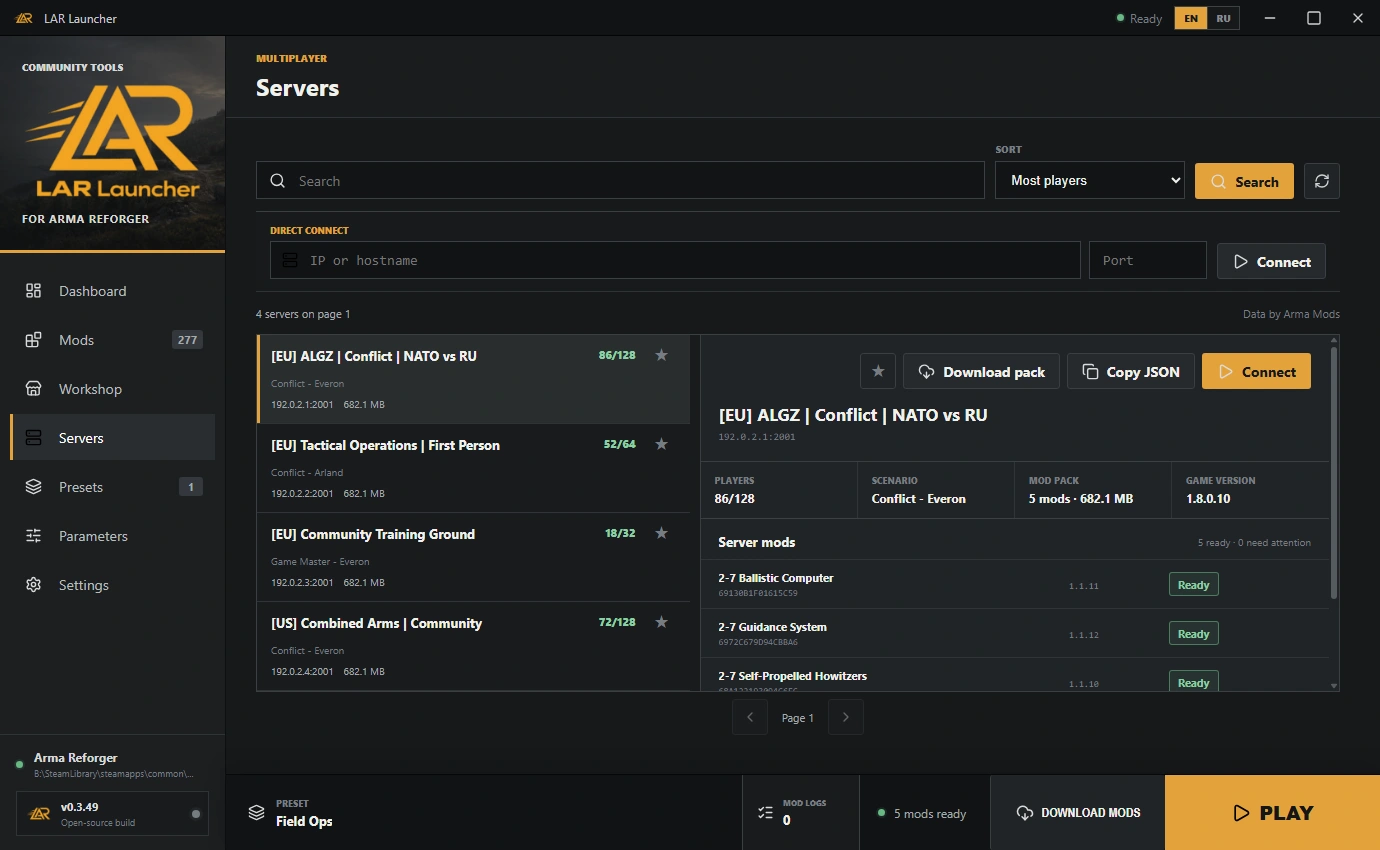
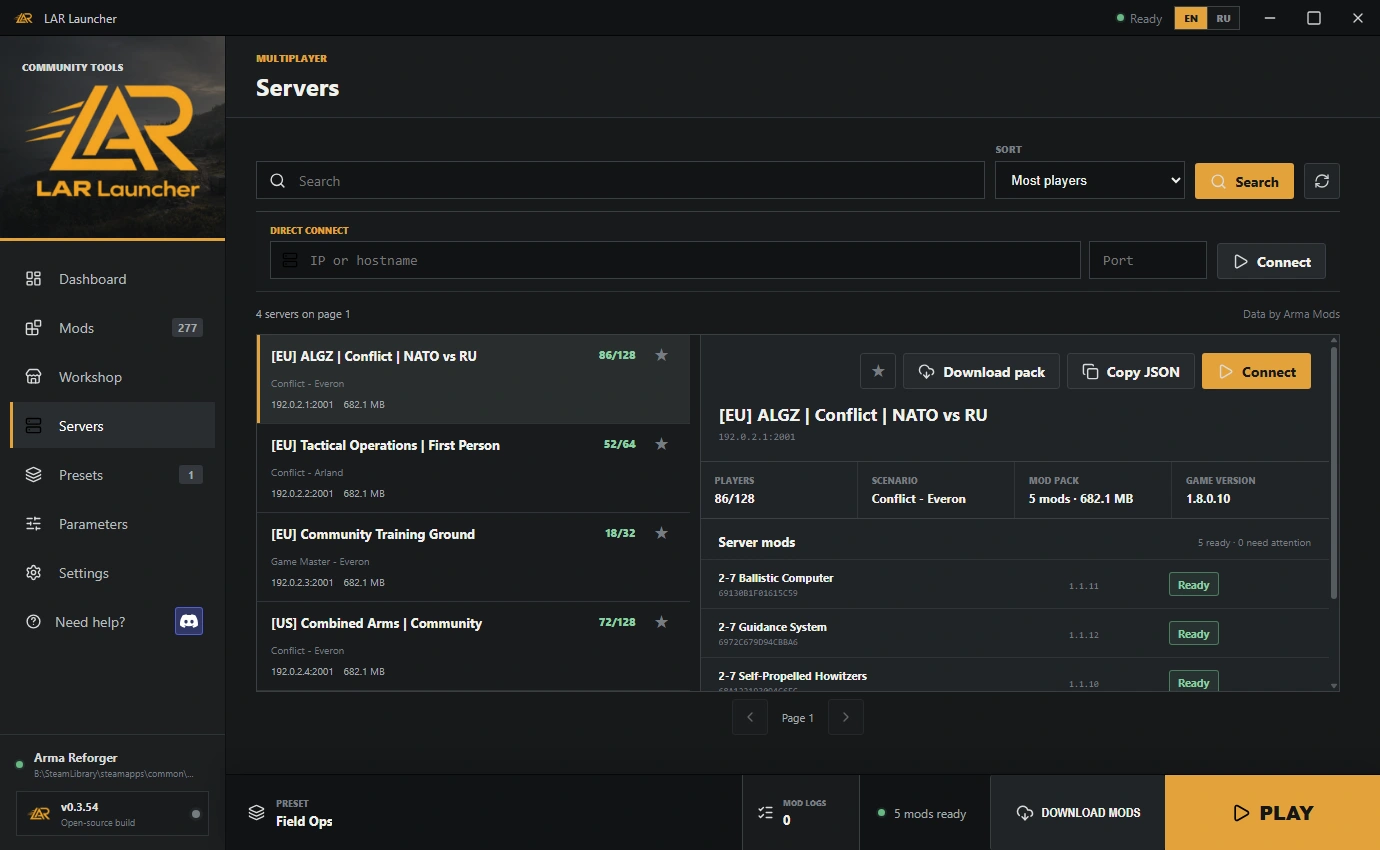
Simplify LAR branding and publish 0.3.54 downloads and screenshots

diff --git a/public/index.html b/public/index.html
@@ -3,12 +3,12 @@
 <head>
   <meta charset="utf-8">
   <meta name="viewport" content="width=device-width, initial-scale=1">
-  <title>LAR Launcher — Launcher for Arma Reforger</title>
-  <meta name="description" content="Download LAR Launcher for Windows and Linux. Browse Arma Reforger servers, import JSON mod presets, check installed mods and launch the game with your selected mod set.">
+  <title>LAR Launcher</title>
+  <meta name="description" content="Download LAR Launcher for Windows and Linux. Browse servers, import JSON mod presets, check installed mods and launch the game with your selected mod set.">
   <meta name="theme-color" content="#111415">
   <meta property="og:type" content="website">
-  <meta property="og:title" content="LAR Launcher — Launcher for Arma Reforger">
-  <meta property="og:description" content="Download LAR Launcher for Windows and Linux. Browse Arma Reforger servers, import JSON mod presets, check installed mods and launch the game with your selected mod set.">
+  <meta property="og:title" content="LAR Launcher">
+  <meta property="og:description" content="Download LAR Launcher for Windows and Linux. Browse servers, import JSON mod presets, check installed mods and launch the game with your selected mod set.">
   <meta property="og:site_name" content="LAR Launcher">
   <meta property="og:url" content="https://armalauncher.net/">
   <meta property="og:image" content="https://armalauncher.net/assets/app-icon-512.png?v=amber20260914v49">
@@ -16,8 +16,8 @@
   <meta property="og:image:height" content="512">
   <meta property="og:image:alt" content="LAR Launcher logo">
   <meta name="twitter:card" content="summary">
-  <meta name="twitter:title" content="LAR Launcher — Launcher for Arma Reforger">
-  <meta name="twitter:description" content="Download LAR Launcher for Windows and Linux. Browse Arma Reforger servers, import JSON mod presets, check installed mods and launch the game with your selected mod set.">
+  <meta name="twitter:title" content="LAR Launcher">
+  <meta name="twitter:description" content="Download LAR Launcher for Windows and Linux. Browse servers, import JSON mod presets, check installed mods and launch the game with your selected mod set.">
   <meta name="twitter:image" content="https://armalauncher.net/assets/app-icon-512.png?v=amber20260914v49">
   <meta name="twitter:image:alt" content="LAR Launcher logo">
   <link rel="canonical" href="https://armalauncher.net/">
@@ -46,7 +46,7 @@
         "@id": "https://armalauncher.net/#application",
         "name": "LAR Launcher",
         "url": "https://armalauncher.net/",
-        "description": "A community launcher for Arma Reforger with server browsing, JSON mod presets and installed mod checks.",
+        "description": "A community launcher with server browsing, JSON mod presets and installed mod checks.",
         "applicationCategory": "GameApplication",
         "operatingSystem": "Windows 10/11 x64; Linux x64 (Ubuntu / Linux Mint)",
         "downloadUrl": "https://armalauncher.net/#download",
@@ -60,7 +60,7 @@
   <header class="site-header" id="siteHeader">
     <a class="brand" href="#top" aria-label="LAR Launcher — home">
       <img src="/assets/app-icon-192.png?v=amber20260914v49" alt="" width="42" height="42">
-      <span><b>LAR Launcher</b><small>FOR ARMA REFORGER</small></span>
+      <span><b>LAR Launcher</b></span>
     </a>
 
     <nav class="main-nav" id="mainNav" aria-label="Main navigation">
@@ -101,8 +101,8 @@
       <div class="container hero-content">
         <p class="eyebrow reveal">ARMALAUNCHER.NET / DESKTOP CLIENT</p>
         <h1>LAR Launcher</h1>
-        <p class="hero-lead">A launcher for Arma Reforger</p>
-        <p class="hero-description">Browse servers, manage your mod presets and launch Arma Reforger with the right mod set.</p>
+        <p class="hero-lead">Servers. Mods. Presets.</p>
+        <p class="hero-description">Browse servers, manage your mod presets and launch the game with the right mod set.</p>
         <div class="hero-actions reveal" data-reveal-delay="3">
           <a class="button primary" data-download="setup" href="/get/setup">
             <img src="/assets/icons/download.svg" alt="" width="24" height="24">
@@ -116,7 +116,7 @@
           </a>
         </div>
         <div class="hero-meta reveal" data-reveal-delay="4" aria-label="Release information">
-          <span>Version <b data-release-version>0.3.49</b></span>
+          <span>Version <b data-release-version>0.3.54</b></span>
           <span>Windows / Linux · x64</span>
           <span><b data-release-size="setup">81.2 MB</b></span>
         </div>
@@ -134,7 +134,7 @@
 
         <figure class="launcher-figure launcher-gallery reveal" id="launcherGallery" aria-label="Launcher screenshot gallery" aria-roledescription="carousel">
           <div class="launcher-gallery-stage" tabindex="0">
-            <img id="launcherGalleryImage" src="/assets/launcher-workshop.webp?v=amber20260914v49" alt="LAR Launcher Workshop showing available mods" width="1380" height="850" loading="lazy" decoding="async">
+            <img id="launcherGalleryImage" src="/assets/launcher-workshop.webp?v=help20260914v54" alt="LAR Launcher Workshop showing available mods" width="1380" height="850" loading="lazy" decoding="async">
             <button class="gallery-arrow gallery-arrow-previous" id="galleryPrevious" type="button" title="Previous screenshot" aria-label="Previous screenshot">
               <img src="/assets/icons/chevron-left.svg" alt="" width="24" height="24">
             </button>
@@ -178,7 +178,7 @@
           <article class="workflow-step reveal" data-reveal-delay="2">
             <span class="step-number">03</span>
             <img src="/assets/icons/play.svg" alt="" width="24" height="24">
-            <h3>Launch Arma Reforger</h3>
+            <h3>Launch the game</h3>
             <p>Only mods from the selected preset are enabled for this launch.</p>
           </article>
         </div>
@@ -220,7 +220,7 @@
           <p class="eyebrow">04 / DOWNLOAD</p>
           <div class="download-heading-copy">
             <h2>Download LAR Launcher</h2>
-            <p>Choose your system. Windows has an installer and a portable version. For Ubuntu and Linux Mint, use the DEB package or AppImage. Arma Reforger on Linux requires Steam and Proton.</p>
+            <p>Choose your system. Windows has an installer and a portable version. For Ubuntu and Linux Mint, use the DEB package or AppImage. On Linux, the game requires Steam and Proton.</p>
           </div>
           <div class="download-counter" id="downloadCounter">
             <img src="/assets/icons/download.svg" alt="" width="22" height="22">
@@ -305,7 +305,7 @@
             <img src="/assets/icons/badge-check.svg" alt="" width="24" height="24">
             <span>Verify the Windows installer with SHA-256</span>
           </div>
[2 lines of base64/hex data omitted]
             <img src="/assets/icons/copy.svg" alt="" width="24" height="24">Copy Windows installer hash
           </button>
         </div>
@@ -318,7 +318,7 @@
     <div class="container footer-grid">
       <div class="footer-brand">
         <img src="/assets/app-icon-192.png?v=amber20260914v49" alt="" width="54" height="54" loading="lazy" decoding="async">
-        <div><b>LAR Launcher</b><span>Community project / v<span data-release-version>0.3.49</span></span></div>
+        <div><b>LAR Launcher</b><span>Community project / v<span data-release-version>0.3.54</span></span></div>
       </div>
       <div class="footer-links">
         <a href="#product">Interface</a>

diff --git a/public/app.js b/public/app.js
@@ -55,12 +55,12 @@ const staticRussian = {
   'Home': 'Главная',
   'Presets': 'Пресеты',
   'Control': 'Контроль',
-  'A launcher for Arma Reforger': 'Лаунчер для Arma Reforger',
-  'Browse servers, manage your mod presets and launch Arma Reforger with the right mod set.': 'Выбирай серверы, управляй пресетами и запускай Arma Reforger с нужным набором модов.',
+  'Servers. Mods. Presets.': 'Серверы. Моды. Пресеты.',
+  'Browse servers, manage your mod presets and launch the game with the right mod set.': 'Выбирай серверы, управляй пресетами и запускай игру с нужным набором модов.',
   'LAR Launcher brings the server browser, Workshop and installed mods into one desktop app. Keep a preset for each server or group so you can check your mod list before joining a session.': 'LAR Launcher объединяет список серверов, Workshop и установленные моды в одном приложении. Сохраняй пресеты для разных серверов и групп, чтобы проверять набор модов перед игрой.',
   'Download for Windows': 'Скачать для Windows',
   'Download for Linux': 'Скачать для Linux',
-  'Choose your system. Windows has an installer and a portable version. For Ubuntu and Linux Mint, use the DEB package or AppImage. Arma Reforger on Linux requires Steam and Proton.': 'Выбери свою систему. Для Windows есть установщик и portable-версия. Для Ubuntu и Linux Mint — DEB-пакет и AppImage. Для Arma Reforger на Linux нужны Steam и Proton.',
+  'Choose your system. Windows has an installer and a portable version. For Ubuntu and Linux Mint, use the DEB package or AppImage. On Linux, the game requires Steam and Proton.': 'Выбери свою систему. Для Windows есть установщик и portable-версия. Для Ubuntu и Linux Mint — DEB-пакет и AppImage. Для игры на Linux нужны Steam и Proton.',
   'Recommended for Ubuntu and Linux Mint': 'Рекомендуется для Ubuntu и Linux Mint',
   'Linux installer': 'Установщик Linux',
   'Installs the launcher and adds it to your applications menu.': 'Устанавливает лаунчер и добавляет его в меню приложений.',
@@ -83,7 +83,7 @@ const staticRussian = {
   'Open a JSON file or paste a list from': 'Открой JSON-файл или вставь список из',
   'Check the mods': 'Проверь моды',
   'The launcher flags missing mods and version differences before launch.': 'До запуска лаунчер покажет, каких модов не хватает и где отличаются версии.',
-  'Launch Arma Reforger': 'Запусти Арму Рефорджер',
+  'Launch the game': 'Запусти игру',
   'Only mods from the selected preset are enabled for this launch.': 'Для этого запуска будут включены только моды из выбранного пресета.',
   '03 / CONTROL': '03 / КОНТРОЛЬ',
   'Works with large libraries.': 'Работает с большой библиотекой.',
@@ -97,7 +97,7 @@ const staticRussian = {
   'Repair tools': 'Восстановление',
   'Reset launcher data and scan the library again when needed.': 'При необходимости можно сбросить данные лаунчера и проверить библиотеку заново.',
   'Download LAR Launcher': 'Скачать LAR Launcher',
-  'Get LAR Launcher for Arma Reforger on Windows 10/11 x64. Choose the installer for shortcuts and a setup wizard, or the portable EXE to run it from any folder. Then open your JSON preset, check the mods and launch the game.': 'Скачай LAR Launcher для Arma Reforger на Windows 10/11 x64. Установщик создаст ярлыки и поможет выбрать папку, а portable-версия запускается из любого каталога. Затем открой JSON-пресет, проверь моды и запусти игру.',
+  'Get LAR Launcher on Windows 10/11 x64. Choose the installer for shortcuts and a setup wizard, or the portable EXE to run it from any folder. Then open your JSON preset, check the mods and launch the game.': 'Скачай LAR Launcher на Windows 10/11 x64. Установщик создаст ярлыки и поможет выбрать папку, а portable-версия запускается из любого каталога. Затем открой JSON-пресет, проверь моды и запусти игру.',
   'Standard installation': 'Обычная установка',
   'Windows installer': 'Установщик Windows',
   'Creates shortcuts and lets you choose the installation folder.': 'Создаёт ярлыки и позволяет выбрать папку установки.',
@@ -114,19 +114,19 @@ let language = localStorage.getItem('armaLauncherSiteLanguage') === 'ru' ? 'ru' 
 
 const gallerySlides = [
   {
-    image: '/assets/launcher-workshop.webp?v=amber20260914v49',
+    image: '/assets/launcher-workshop.webp?v=help20260914v54',
     width: 1380, height: 850,
     title: { en: 'Workshop', ru: 'Мастерская' },
     alt: { en: 'LAR Launcher Workshop showing available mods', ru: 'Доступные моды в мастерской LAR Launcher' }
   },
   {
-    image: '/assets/launcher-servers.webp?v=amber20260914v49',
+    image: '/assets/launcher-servers.webp?v=help20260914v54',
     width: 1380, height: 850,
     title: { en: 'Servers', ru: 'Серверы' },
     alt: { en: 'LAR Launcher server browser', ru: 'Список серверов LAR Launcher' }
   },
   {
-    image: '/assets/launcher-mods.webp?v=amber20260914v49',
+    image: '/assets/launcher-mods.webp?v=help20260914v54',
     width: 1380, height: 850,
     title: { en: 'Mods', ru: 'Моды' },
     alt: { en: 'LAR Launcher installed mod library', ru: 'Установленные моды в LAR Launcher' }
@@ -174,12 +174,10 @@ function applyLanguage() {
   });
 
   document.documentElement.lang = language;
-  document.title = language === 'ru'
-    ? 'LAR Launcher — лаунчер для Arma Reforger'
-    : 'LAR Launcher — Launcher for Arma Reforger';
+  document.title = 'LAR Launcher';
   $('meta[name="description"]').content = language === 'ru'
-    ? 'Скачай LAR Launcher для Windows и Linux: выбирай серверы Arma Reforger, импортируй JSON-пресеты, проверяй моды и запускай игру с выбранным набором.'
-    : 'Download LAR Launcher for Windows and Linux. Browse Arma Reforger servers, import JSON mod presets, check installed mods and launch the game with your selected mod set.';
+    ? 'Скачай LAR Launcher для Windows и Linux: выбирай серверы, импортируй JSON-пресеты, проверяй моды и запускай игру с выбранным набором.'
+    : 'Download LAR Launcher for Windows and Linux. Browse servers, import JSON mod presets, check installed mods and launch the game with your selected mod set.';
   for (const selector of ['meta[property="og:title"]', 'meta[name="twitter:title"]']) $(selector).content = document.title;
   for (const selector of ['meta[property="og:description"]', 'meta[name="twitter:description"]']) $(selector).content = $('meta[name="description"]').content;
   $$('[data-language]').forEach((button) => {
